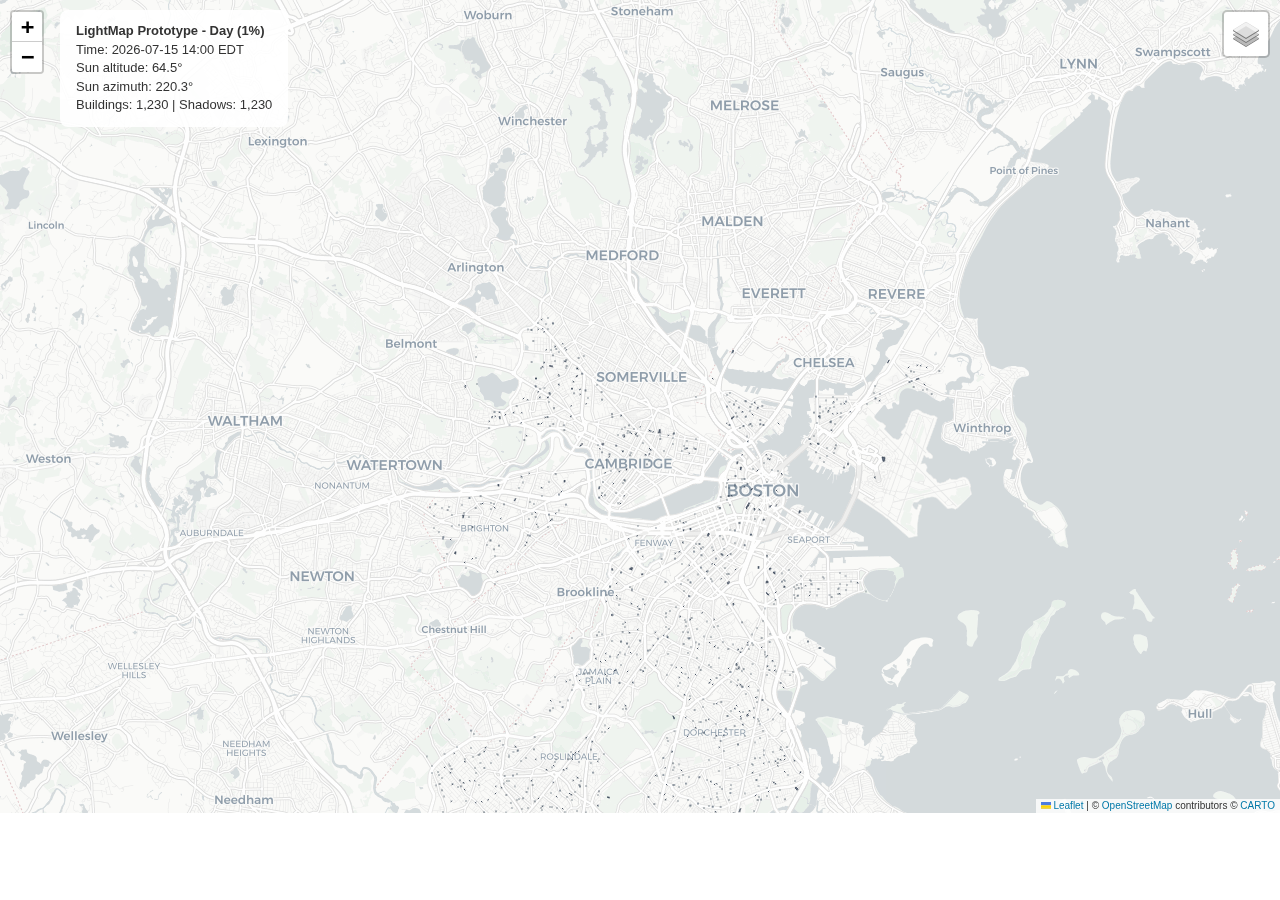
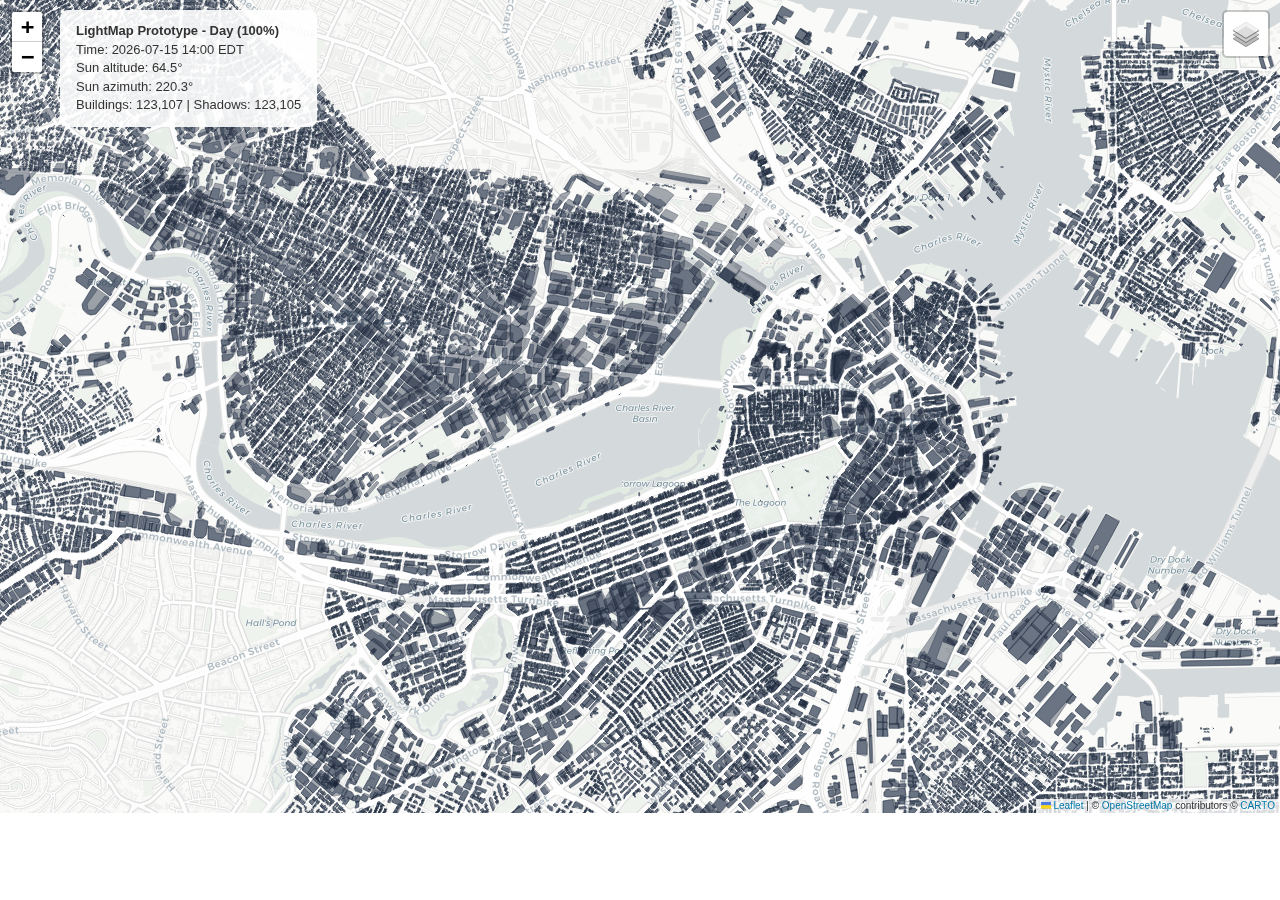
docs: add day/night preview screenshots to README

diff --git a/src/prototype.py b/src/prototype.py
@@ -12,7 +12,7 @@ from folium.plugins import HeatMap
 from shadow.compute import compute_all_shadows, get_sun_position
 
 BOSTON_TZ = ZoneInfo("US/Eastern")
-MAP_CENTER = [42.38, -71.10]
+MAP_CENTER = [42.36, -71.08]
 DATA_DIR = os.path.join(os.path.dirname(__file__), "..", "data")
 OUT_DIR = os.path.join(os.path.dirname(__file__), "..", "docs")
 
@@ -165,8 +165,7 @@ def build_day_map(target_time, altitude, azimuth, scale_pct):
     shadows, _, _ = compute_all_shadows(tmp_path, target_time)
     print(f"  Shadows computed: {len(shadows)}")
 
-    zoom = 12 if building_count > 500 else 13 if building_count > 50 else 14
-    m = folium.Map(location=MAP_CENTER, zoom_start=zoom, tiles="CartoDB positron")
+    m = folium.Map(location=MAP_CENTER, zoom_start=14, tiles="CartoDB positron")
 
     folium.GeoJson(
         building_data,
@@ -206,8 +205,7 @@ def build_day_map(target_time, altitude, azimuth, scale_pct):
 
 
 def build_night_map(target_time, altitude, azimuth, scale_pct):
-    zoom = 12 if scale_pct > 10 else 12
-    m = folium.Map(location=MAP_CENTER, zoom_start=zoom, tiles="CartoDB dark_matter")
+    m = folium.Map(location=MAP_CENTER, zoom_start=14, tiles="CartoDB dark_matter")
 
     print("Loading streetlights...")
     coords = load_streetlights(scale_pct)

diff --git a/README.md b/README.md
@@ -6,6 +6,12 @@ An interactive web map that shows where shade falls during the day and where lig
 
 Built by **Juhong Park** (System Design and Management, MIT) as a term project for [**MIT 1.001: Engineering Computation and Data Science**](https://student.mit.edu/catalog/search.cgi?search=1.001) (Spring 2026), taught by [Abel Sanchez](https://abel.mit.edu/) and [John R. Williams](https://johntango.github.io/). Course website: [onexi.org](https://onexi.org).
 
+## Preview
+
+| Day (Shadow Map) | Night (Brightness Map) |
+| --- | --- |
+| ![Day mode](docs/screenshots/day.png) | ![Night mode](docs/screenshots/night.png) |
+
 ## Tech Stack
 
 | Layer | Technologies |
